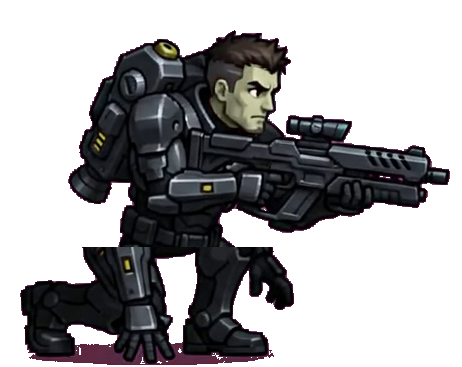
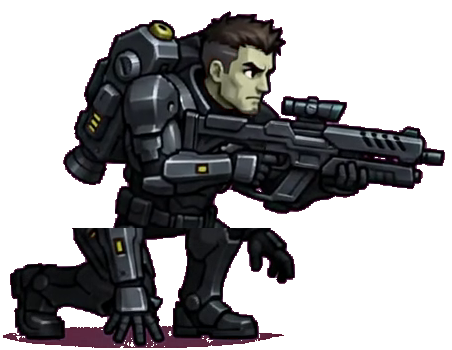
Full-body aim split: run/walk/down-shoot, crouch button, wall-grab size, solid crouch, flash-aligned bullets
- Upper/lower halves for ALL movement: run-shoot and walk-shoot composites
  (run/walk legs + aim torso), wired so Ty aims the rifle while moving.
- Shoot DOWN while running: hold Down (while moving/airborne) to angle the rifle
  diagonally down; new rundownfire/walkdownfire composites (aim torso rotated 34
  deg) + the bullet now carries a downward velocity component.
- Dedicated crouch button (C / L-Ctrl). Down alone still crouches when standing
  still, but is freed to mean aim-down while moving.
- Wall grapple/slide/wall-jump only on a wall tall enough (>= 1.6x Ty's height),
  not on low ledges/steps (self.wall_grab).
- Crouch animation made solid: re-cut to the settled kneel (video B f32-56),
  dropping the tall 'entering-crouch' frame that popped the cycle.
- Bullets come out of the flash: muzzle() is aim-pose-aware (barrel offsets per
  stance) and standing fire uses the flash-free aim pose, so there's a single
  muzzle flash at the bullet's origin instead of a chest flash + mid-body bullet.
  Heights kept in the enemy-hittable band so ground fire still connects.

selftest OK across repeated runs: all 5 missions win.

Changed region(s): [[0.0, 0.0286, 0.9912, 1.0], [0.0929, 0.8, 0.1239, 0.8286]]

diff --git a/games/mold_mission/mold_mission.py b/games/mold_mission/mold_mission.py
@@ -109,7 +109,8 @@ ANIM_FPS = {"player": 6, "player_walk": 11, "player_run": 15, "player_dash": 18,
             "player_crouch_run": 15, "player_pickup": 12, "player_carry": 11,
             "player_throw": 16, "player_place": 12,
             "player_jumpfire": 12, "player_fallfire": 10, "player_peakfire": 8,
-            "player_crouchfire": 10}
+            "player_crouchfire": 10, "player_runfire": 15, "player_walkfire": 11,
+            "player_rundownfire": 15, "player_walkdownfire": 11}
 DUCK_RATIO = 0.74       # a ducked pose renders this fraction of standing height
 BOSS_H = 1.34           # boss sprite height as a multiple of its collision height
 
@@ -2009,9 +2010,11 @@ class Player:
         self.ride = None        # moving platform Ty is standing on
         self.land_t = 0.0       # landing-squash animation timer
         self.wall = 0           # -1 wall on left, 1 wall on right, 0 none
+        self.wall_grab = False  # the contacted wall is tall enough to cling to
         self.wj_lock = 0.0      # wall-jump horizontal lockout
         self.wj_dir = 0
         self.crouching = False
+        self.aim_down = False       # holding Down while moving/airborne = aim down
         self.sliding = False
         self.slow = 0.0
         # crouch move-set timers / flags (drive the 15-pose crouch sheet)
@@ -2043,16 +2046,28 @@ class Player:
         return (self.x, self.y, self.w, self.h)
 
     def muzzle(self):
-        """Gun-barrel tip in world space — shots and the muzzle flash spawn from
-        here so fire actually leaves the end of the blaster, at the right height
-        for the stance (lower when ducked)."""
+        """Gun-barrel tip in world space — the muzzle flash AND the bullet both
+        spawn here, so fire leaves the end of the blaster. Offsets are matched to
+        where the rifle actually points in each firing pose (measured from the
+        composite sprites), so the shot comes straight out of the flash."""
+        cx = self.x + self.w / 2
+        feet = self.y + self.h
+        f = self.facing
+        # NOTE: heights are kept in the enemy-hittable band (~26-48px tall mold),
+        # so ground fire connects — a muzzle up at the sprite's chest would sail
+        # over the short crawlers. The flash spawns here too, so bullet==flash.
+        if self.aim_down:                       # rifle angled diagonally down
+            return (cx + f * 34, feet - 16)
         ducking = self.crouching or self.crouch_slide
-        # ducked: the crouch pose isn't an aimed stance, so keep the muzzle tight
-        # to Ty's front at gun height — a far/high muzzle made the shot + flash
-        # float in empty space away from his crouched body.
-        reach = self.w / 2 + (24 if ducking else 46)
-        gy = self.y + (self.h * 0.70 if ducking else self.h * 0.40)
-        return (self.x + self.w / 2 + self.facing * reach, gy)
+        if ducking:                             # crouch-shoot barrel
+            dx, above = 40, 24
+        elif not self.on_ground:                # air-shoot (jump/peak vs fall)
+            dx, above = (36, 34) if self.vy > 90 else (48, 38)
+        elif abs(self.vx) > 8:                  # run / walk shoot (aim torso)
+            dx, above = 38, 32
+        else:                                   # standing shoot (aim pose)
+            dx, above = 46, 33
+        return (cx + f * dx, feet - above)
 
     def melee_rect(self):
         """Short reach in front of a crouching Ty for the melee swing."""
@@ -2111,6 +2126,7 @@ class Player:
         right = keys[pygame.K_RIGHT] or keys[pygame.K_d]
         up_key = keys[pygame.K_UP] or keys[pygame.K_w]
         down = keys[pygame.K_DOWN] or keys[pygame.K_s]
+        crouch_btn = keys[pygame.K_c] or keys[pygame.K_LCTRL]  # dedicated crouch
         # ladder Ty is straddling (Mega Man climbing)
         cxc = self.x + self.w / 2
         lad = None
@@ -2138,7 +2154,7 @@ class Player:
 
         # dash key: a plain dash, or — while ducking — a low SLIDE (moving) or a
         # MELEE swing (standing still). The slide keeps Ty's short hurtbox.
-        crouch_hold = down and self.on_ground and self.dash_t <= 0
+        crouch_hold = (down or crouch_btn) and self.on_ground and self.dash_t <= 0
         if (keys[pygame.K_l] or keys[pygame.K_LSHIFT]) and self.dash_cd <= 0 \
                 and self.dash_t <= 0 and self.melee_t <= 0:
             if crouch_hold and moving == 0:
@@ -2154,8 +2170,15 @@ class Player:
                     self.facing = moving        # slide the way you steer
                 snd.play("dash")
 
-        self.crouching = (down and self.on_ground and self.dash_t <= 0
-                          and self.kb_t <= 0)
+        # crouch: the dedicated crouch button (C / L-Ctrl) always ducks; the Down
+        # key ducks only when standing still, so Down stays free to mean "aim the
+        # gun DOWN" while running or airborne.
+        self.crouching = (self.on_ground and self.dash_t <= 0 and self.kb_t <= 0
+                          and (crouch_btn or (down and moving == 0)))
+        # aim-down modifier: hold Down while moving on the ground or in the air —
+        # Ty angles the rifle diagonally down and fires downward.
+        self.aim_down = (down and not self.crouching and self.dash_t <= 0
+                         and (moving != 0 or not self.on_ground))
         self.crouch_recent = 0.16 if self.crouching else max(0.0, self.crouch_recent - dt)
         if self.dash_t > 0:
             self.dash_t -= dt
@@ -2184,6 +2207,7 @@ class Player:
 
         # -- horizontal move + resolve (records wall contact) --
         self.wall = 0
+        wall_ph = 0.0
         self.x += self.vx * dt
         self.x = max(0, min(LEVEL_W - self.w, self.x))
         for (px, py, pw, ph) in plats:
@@ -2191,13 +2215,19 @@ class Player:
                 if self.vx > 0:
                     self.x = px - self.w
                     self.wall = 1
+                    wall_ph = ph
                 elif self.vx < 0:
                     self.x = px + pw
                     self.wall = -1
+                    wall_ph = ph
+        # Ty can only grapple / slide / wall-jump on a wall that's BIG ENOUGH —
+        # a real wall taller than he is, not a low ledge or a step. Small blocks
+        # still stop him horizontally, they just aren't climbable.
+        self.wall_grab = self.wall != 0 and wall_ph >= self.h * 1.6
 
         self.vy += GRAVITY * dt
-        # wall slide: cling and fall slowly when pressing into a wall
-        self.sliding = (not self.on_ground and self.wall != 0 and self.vy > 0
+        # wall slide: cling and fall slowly when pressing into a big-enough wall
+        self.sliding = (not self.on_ground and self.wall_grab and self.vy > 0
                         and ((right and self.wall == 1) or (left and self.wall == -1)))
         if self.sliding:
             self.vy = min(self.vy, 130)
@@ -2219,7 +2249,7 @@ class Player:
                 if self.crouch_recent > 0:      # springing up out of a crouch
                     self.cjump_t = 0.30
                 snd.play("jump")
-            elif self.wall != 0:
+            elif self.wall_grab:               # wall-jump only off a big-enough wall
                 self.vy = -JUMP_V
                 self.wj_dir = -self.wall
                 self.wj_lock = 0.18
@@ -2337,9 +2367,21 @@ class Player:
         spd = w["spd"] if w else 620
         fire = keys[pygame.K_j] or keys[pygame.K_x]
         muzx, muzy = self.muzzle()
-        if fire and not self.fire_prev:
-            shots.append(Shot(muzx, muzy, self.facing * spd, dmg0, 0, color=col))
+        # aim-down angles the shot diagonally toward the ground; otherwise it
+        # flies straight ahead. The muzzle flash is spawned at the same point so
+        # the bullet always leaves the flash.
+        ang = math.radians(40) if self.aim_down else 0.0
+
+        def _shoot(speed, dmg, lvl):
+            sh = Shot(muzx, muzy, self.facing * speed * math.cos(ang),
+                      dmg, lvl, color=col)
+            if self.aim_down:
+                sh.vy = speed * math.sin(ang)         # downward component
+            shots.append(sh)
             parts.muzzle(muzx, muzy, self.facing, col or C_CHARGE)
+
+        if fire and not self.fire_prev:
+            _shoot(spd, dmg0, 0)
             snd.play("shot_" + self.weapon if self.weapon else "shot")
             self.fire_anim = 0.16
             self.charging = True
@@ -2348,15 +2390,11 @@ class Player:
             self.charge += dt
         if not fire and self.fire_prev and self.charging:
             if self.charge >= 0.9:
-                shots.append(Shot(muzx, muzy, self.facing * (spd + 60),
-                                  dmg0 + 4, 2, color=col))
-                parts.muzzle(muzx, muzy, self.facing, col or C_CHARGE)
+                _shoot(spd + 60, dmg0 + 4, 2)
                 snd.play("charge")
                 self.fire_anim = 0.22
             elif self.charge >= 0.4:
-                shots.append(Shot(muzx, muzy, self.facing * (spd + 30),
-                                  dmg0 + 2, 1, color=col))
-                parts.muzzle(muzx, muzy, self.facing, col or C_CHARGE)
+                _shoot(spd + 30, dmg0 + 2, 1)
                 snd.play("shot_" + self.weapon if self.weapon else "shot")
                 self.fire_anim = 0.20
             self.charging = False
@@ -2462,7 +2500,23 @@ class Player:
                     if firing and want not in assets.anims:
                         want = want.replace("fire", "")   # fall back if missing
                 elif self.fire_anim > 0:
-                    want = "player_shoot"          # firing on the ground
+                    # firing on the ground: aim the rifle while moving (run/walk
+                    # legs + aim torso), angled DOWN when Down is held, else the
+                    # standing shoot pose when still.
+                    moving = abs(self.vx) > 8
+                    fast = abs(self.vx) > 130
+                    if self.aim_down and moving and "player_rundownfire" in assets.anims:
+                        want = "player_rundownfire" if fast else "player_walkdownfire"
+                    elif fast and "player_runfire" in assets.anims:
+                        want = "player_runfire"
+                    elif moving and "player_walkfire" in assets.anims:
+                        want = "player_walkfire"
+                    else:
+                        # standing fire uses the AIM pose (no baked-in muzzle
+                        # flash), so the only flash is the game's — spawned at the
+                        # bullet's origin, so the shot leaves the flash cleanly
+                        # instead of a second flash appearing up at the chest.
+                        want = "player_aim"
                 elif self.land_t > 0:
                     want = "player_land"           # just touched down
                 elif self.charging:

diff --git a/games/mold_mission/make_jumpshoot.py b/games/mold_mission/make_jumpshoot.py
@@ -29,7 +29,16 @@ CLIPS = {
     "player_fall":   ("player_fallfire",   0.50, 0.60),
     "player_peak":   ("player_peakfire",   0.50, 0.60),
     "player_crouch": ("player_crouchfire", 0.66, 0.52),
+    "player_run":    ("player_runfire",    0.50, 0.60),
+    "player_walk":   ("player_walkfire",   0.50, 0.60),
 }
+# down-aim: the aim torso rotated so the rifle points diagonally down-forward.
+# Composited with the run legs so Ty can shoot DOWN while running.
+DOWN_CLIPS = {
+    "player_run":  ("player_rundownfire", 0.50, 0.60),
+    "player_walk": ("player_walkdownfire", 0.50, 0.60),
+}
+DOWN_ANGLE = 34                 # degrees the rifle tilts below horizontal
 
 
 def load(name):
@@ -76,6 +85,18 @@ def composite(legs, torso, cut_leg, cut_torso):
     return canvas
 
 
+def rotate_torso(torso, angle):
+    """Rotate the aim torso about the shoulder so the rifle tilts down-forward
+    (for the shoot-while-running-down poses)."""
+    t, b, l, r = bbox(torso)
+    T = torso[t:b + 1, l:r + 1]
+    im = Image.fromarray(T)
+    H, W = T.shape[:2]
+    piv = (int(W * 0.30), int(H * 0.28))       # shoulder pivot (facing right)
+    im = im.rotate(-angle, resample=Image.BICUBIC, center=piv, expand=True)
+    return np.asarray(im)
+
+
 def foot_x(a):
     m = a[:, :, 3] > 8
     ys, xs = np.where(m)
@@ -118,6 +139,9 @@ def main():
     torso = load(TORSO)
     for clip, (outname, cut_leg, cut_torso) in CLIPS.items():
         build(clip, outname, torso, cut_leg, cut_torso)
+    down_torso = rotate_torso(torso, DOWN_ANGLE)
+    for clip, (outname, cut_leg, cut_torso) in DOWN_CLIPS.items():
+        build(clip, outname, down_torso, cut_leg, cut_torso)
 
 
 if __name__ == "__main__":

diff --git a/games/mold_mission/cut_tyguy_anim.py b/games/mold_mission/cut_tyguy_anim.py
@@ -32,7 +32,7 @@ ANIMS = {
     "player_fall":         ("A", 162, 176, 4, False),  # DESCENDING (knees tucked)
     "player_land":         ("A", 186, 202, 4, False),  # TOUCHDOWN crouch (past impact FX)
     "player_wallslide":    ("A", 208, 236, 4, False),  # WALL SLIDE
-    "player_crouch":       ("B",  26,  56, 4, False),  # CROUCH IDLE
+    "player_crouch":       ("B",  32,  56, 4, False),  # CROUCH IDLE (settled kneel)
     "player_crouch_walk":  ("B",  64,  86, 6, False),  # CROUCH WALK
     "player_roll":         ("B", 146, 166, 5, False),  # ROLL
     "player_aim":          ("B", 178, 200, 4, False),  # AIM (rifle up; standing only,
